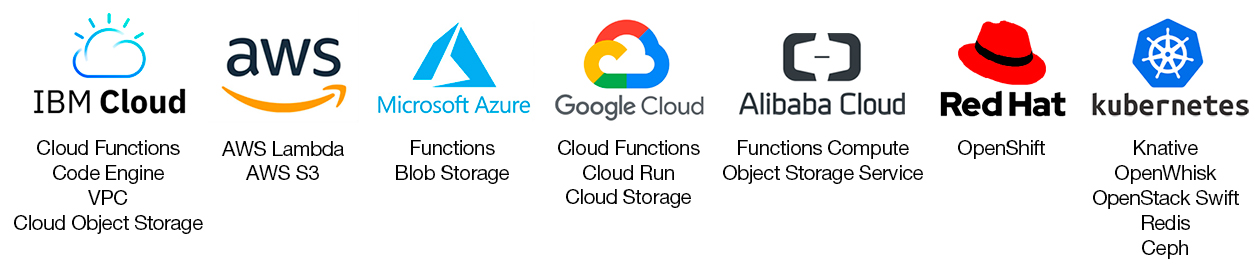
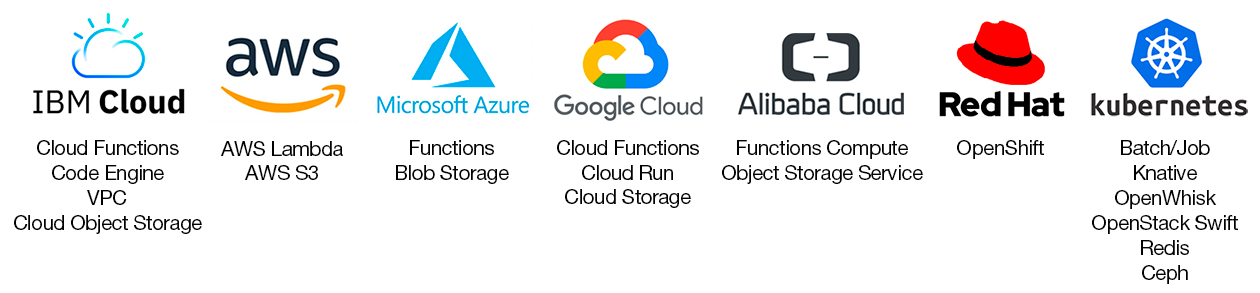
add k8s/job docs

diff --git a/config/compute/k8s_job.md b/config/compute/k8s_job.md
@@ -1,0 +1,39 @@
+# Lithops on kubernetes (batch/job)
+
+Lithops with kubernetes as serverless compute backend.
+
+
+### Configuration
+
+1. Make sure you have a kubernetes cluster configuration file.
+   - Option 1: You have the config file in `~/.kube/config`
+
+   - Option 2: You have the config file in another location, and you exported the KUBECONFIG variable
+     ```bash
+     export KUBECONFIG=<path-to-kube-config-file>
+     ```
+
+   - Option 3: You have the config file in another location, and you set the `kubecfg_path` var in the lithops config
+     ```yaml
+     k8s:
+         kubecfg_path: <path-to-kube-config-file>
+     ```
+
+
+2. Edit your Lithops config and add the following keys:
+
+```yaml
+  serverless:
+      backend : k8s
+```
+
+#### Summary of configuration keys for kubernetes:
+
+|Group|Key|Default|Mandatory|Additional info|
+|---|---|---|---|---|
+|k8s | kubecfg_path | |no | Path to kubecfg file. Mandatory if config file not in `~/.kube/config` or KUBECONFIG env var not present|
+|k8s | container_registry |  docker.io | no | container registry url|
+|k8s | docker_user | |no | Docker hub username |
+|k8s | docker_token | |no | Login to your docker hub account and generate a new access token [here](https://hub.docker.com/settings/security)|
+|k8s | cpu | 1 |no | CPU limit. Default 1vCPU |
+|k8s | runtime |  |no | Docker image name.|

diff --git a/config/storage/azure_blob.md b/config/storage/azure_blob.md
@@ -11,7 +11,7 @@ Lithops with Azure Blob Storage as storage backend.
 $ python3 -m pip install lithops[azure]
 ```
 
-2. Navigate to your storage account and create a new bucket (e.g. `lithops-data`). Remember to update the corresponding Lithops config field with this bucket name.
+2. Navigate to your storage account and [create a new bucket (container)](https://docs.microsoft.com/es-es/azure/storage/blobs/storage-quickstart-blobs-portal#create-a-container) (e.g. `lithops-data`). Remember to update the corresponding Lithops config field with this bucket name.
 
 3. Edit your lithops config and add the following keys:
 

diff --git a/CHANGELOG.md b/CHANGELOG.md
@@ -3,14 +3,17 @@
 ## [v2.3.1.dev0]
 
 ### Added
-- 
+- [knative] Include GCP and Azure storage libs into default knative runtime
 
 ### Changed
-- 
+- [IBM CF] Change user_key to API-key pass instead of user 
 
 ### Fixes
 - [Cli] Fixed --config param in lithops cli
 - [Standalone] Fixed internal executions
+- [Core] Fixed rabbitmq monitor when get_result() is called after wait()
+- [GCP Storage] Fix GCP Storage backend put obj as stream
+- [GCP Functions] Improved runtime create time
 
 
 ## [v2.3.0]

diff --git a/config/README.md b/config/README.md
@@ -67,6 +67,7 @@ Storage Backends
 
 - [IBM Cloud Functions](compute/ibm_cf.md)
 - [IBM Code Engine](compute/code_engine.md)
+- [Kubernetes batch/job](compute/k8s_job.md)
 - [Knative](compute/knative.md)
 - [OpenWhisk](compute/openwhisk.md)
 - [AWS Lambda](compute/aws_lambda.md)
